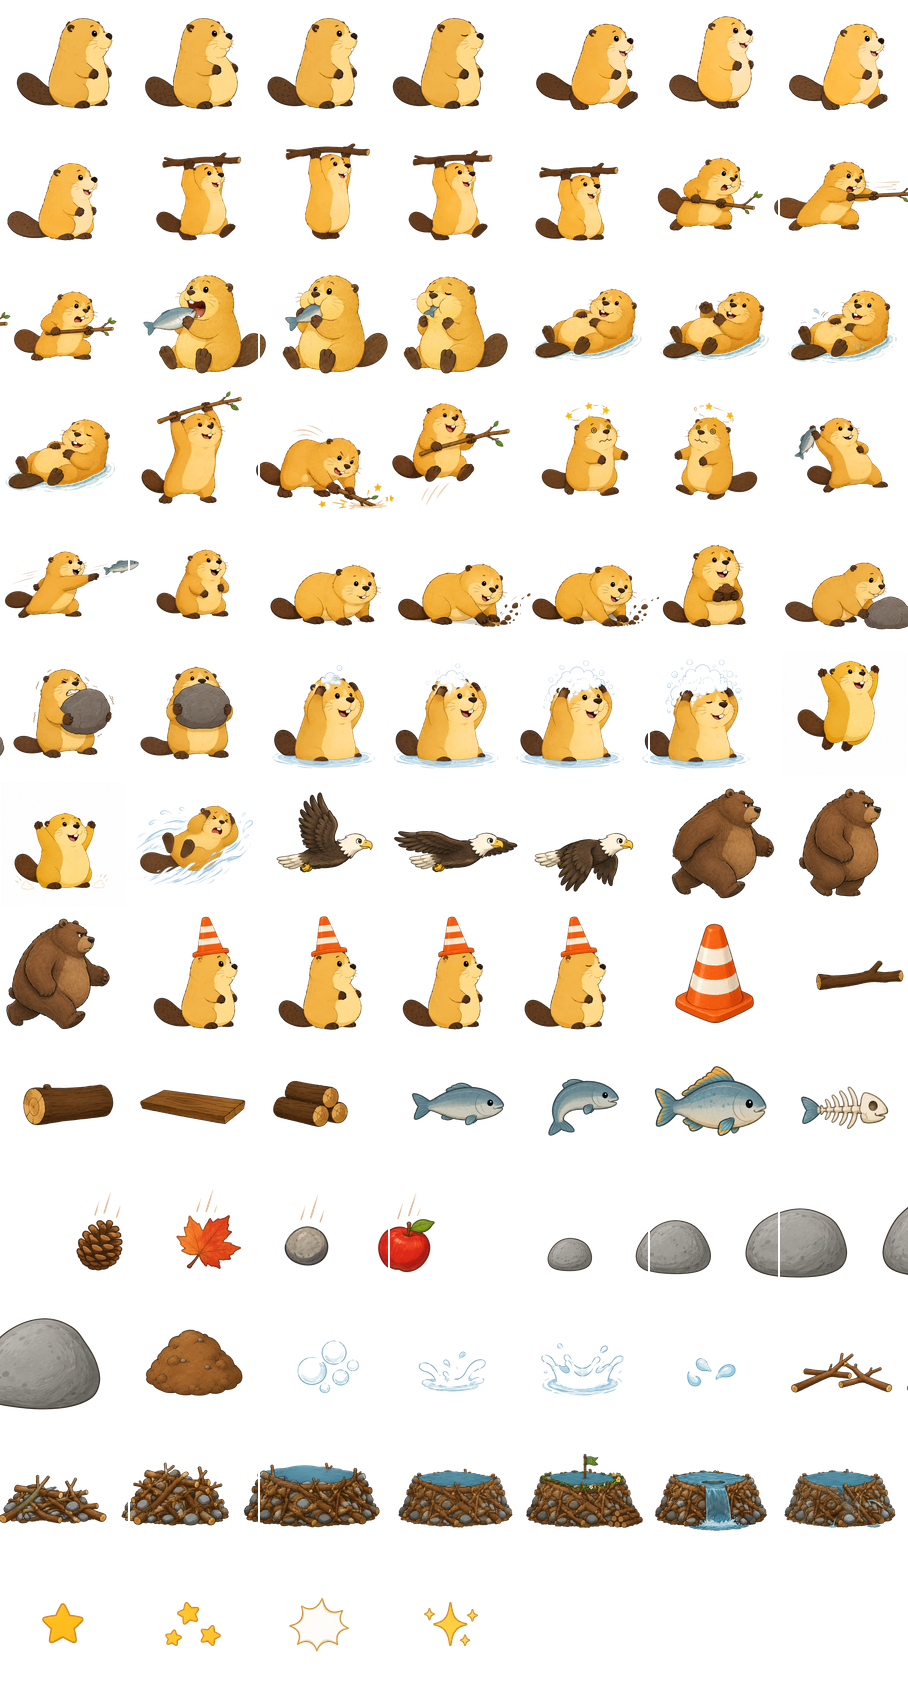
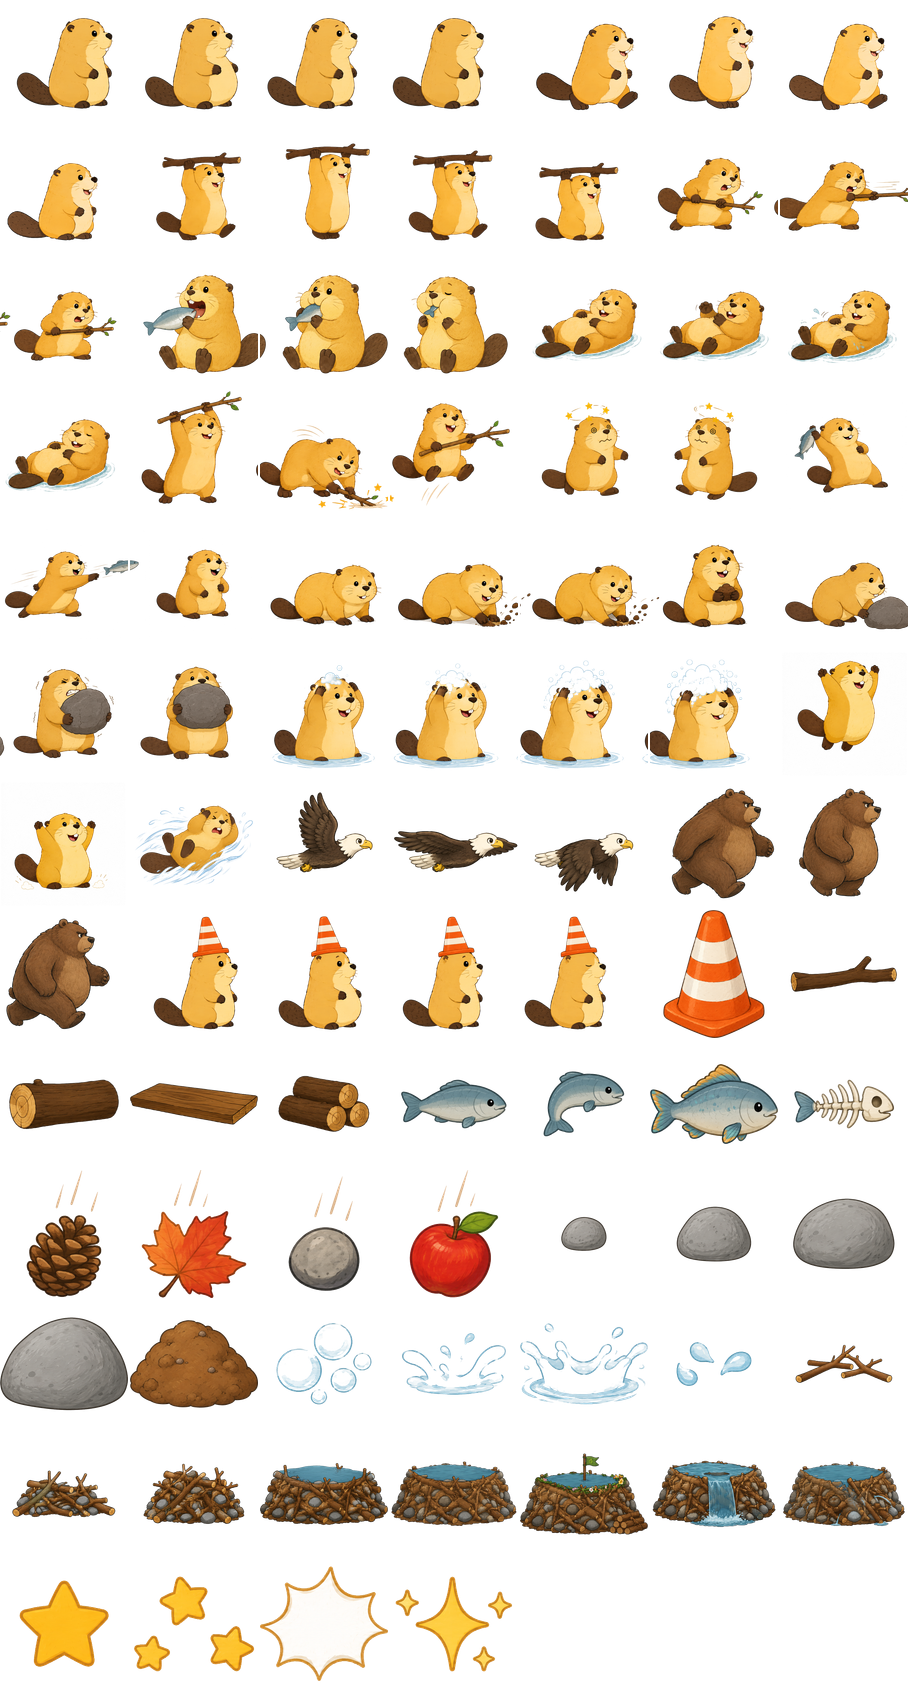
P2-08 fix: content-aware object slicing (rock seam)
- new scripts/lib/slice.ts (occupiedColumns/chooseCutPoints, +5 tests): cut
  object strips at widest gaps between props instead of equal cells
- processObjectSheet: flood-key -> gap-cut -> tight-crop (trim) -> centre at
  native size on per-sheet square -> resize; fixes the transparent seam through
  straddling rocks; props now centred + proportional, no distortion
- fix sharp op-order gotcha (resize before extend/composite) via two passes
- bump in-game ITEM_DISPLAY_HEIGHT 30->42 for readability
- npm run check 229 green + build green

diff --git a/scripts/lib/pipeline.ts b/scripts/lib/pipeline.ts
@@ -30,6 +30,7 @@ import {
   type RawRGBA,
 } from './colorkey';
 import { buildPhaserAtlasJson, packFrames, type FrameInput } from './atlas';
+import { chooseCutPoints, occupiedColumns } from './slice';
 import { buildAnimationsManifest, DEFAULT_FRAME_RATE } from './animations';
 
 /** Background-removal strategy per source sheet. */
@@ -175,6 +176,83 @@ export async function processSheet(
   return frames;
 }
 
+/**
+ * Slice an OBJECT strip into `frameCount` props using content-aware gap cuts
+ * (not equal cells), tight-crop each prop, then centre it at native size on a
+ * per-sheet square canvas (relative sizes preserved, no distortion, no seams).
+ * Frames are named `${key}_${startIndex + i}`.
+ */
+export async function processObjectSheet(
+  filePath: string,
+  key: string,
+  opts: SheetOptions = {},
+  startIndex = 0,
+): Promise<ProcessedFrame[]> {
+  const frameHeight = opts.frameHeight ?? DEFAULT_FRAME_HEIGHT;
+  const { data, info } = await sharp(filePath).ensureAlpha().raw().toBuffer({ resolveWithObject: true });
+  const grid = detectGrid(info.width, info.height);
+  const img = { data: new Uint8Array(data), width: info.width, height: info.height };
+  const bg = sampleBackgroundColor(img);
+  const keyed = floodKeyBackground(img, bg, {
+    tolerance: opts.tolerance ?? DEFAULT_TOLERANCE,
+    feather: opts.feather ?? DEFAULT_FEATHER,
+  });
+  const keyedBuf = Buffer.from(keyed.data.buffer, keyed.data.byteOffset, keyed.data.byteLength);
+  const occ = occupiedColumns(keyed.data, info.width, info.height);
+  const cuts = chooseCutPoints(occ, grid.frameCount);
+  const bounds = [0, ...cuts, info.width];
+
+  // pass 1: tight-crop each segment to its content bbox
+  const cropped: { buf: Buffer; w: number; h: number }[] = [];
+  for (let i = 0; i < grid.frameCount; i++) {
+    const left = Math.min(Math.max(0, bounds[i]!), info.width - 1);
+    const width = Math.min(Math.max(1, bounds[i + 1]! - left), info.width - left);
+    const segPng = await sharp(keyedBuf, { raw: { width: info.width, height: info.height, channels: 4 } })
+      .extract({ left, top: 0, width, height: info.height })
+      .png()
+      .toBuffer();
+    let out;
+    try {
+      out = await sharp(segPng).trim().png().toBuffer({ resolveWithObject: true });
+    } catch {
+      out = await sharp(segPng).png().toBuffer({ resolveWithObject: true }); // uniform/empty -> keep
+    }
+    cropped.push({ buf: out.data, w: out.info.width, h: out.info.height });
+  }
+
+  // pass 2: centre each crop at native size on a common square, resize to frameHeight
+  const side = Math.max(1, ...cropped.map((c) => Math.max(c.w, c.h)));
+  const frames: ProcessedFrame[] = [];
+  for (let i = 0; i < cropped.length; i++) {
+    const c = cropped[i]!;
+    const padL = Math.floor((side - c.w) / 2);
+    const padT = Math.floor((side - c.h) / 2);
+    // NOTE: sharp applies resize BEFORE extend within one pipeline, so pad to
+    // the square in one call, then resize in a fresh instance.
+    const paddedPng = await sharp(c.buf)
+      .extend({
+        top: padT,
+        bottom: side - c.h - padT,
+        left: padL,
+        right: side - c.w - padL,
+        background: { r: 0, g: 0, b: 0, alpha: 0 },
+      })
+      .png()
+      .toBuffer();
+    const squared = await sharp(paddedPng)
+      .resize(frameHeight, frameHeight, { kernel: 'lanczos3' })
+      .raw()
+      .toBuffer();
+    frames.push({
+      name: `${key}_${startIndex + i}`,
+      data: new Uint8Array(squared),
+      width: frameHeight,
+      height: frameHeight,
+    });
+  }
+  return frames;
+}
+
 export interface PipelineOptions {
   /** Directory containing the source sheets. */
   assetsDir: string;
@@ -266,10 +344,10 @@ export async function runPipeline(opts: PipelineOptions): Promise<PipelineResult
   for (const { key, files } of findObjectFiles(opts.assetsDir)) {
     const names: string[] = [];
     for (const file of files) {
-      const frames = await processSheet(
+      const frames = await processObjectSheet(
         file,
         key,
-        { frameHeight, tolerance: opts.tolerance, feather: opts.feather, mode: 'flood' },
+        { frameHeight, tolerance: opts.tolerance, feather: opts.feather },
         names.length,
       );
       for (const f of frames) names.push(f.name);

diff --git a/scripts/lib/slice.ts b/scripts/lib/slice.ts
@@ -1,0 +1,71 @@
+/**
+ * Content-aware column slicing for OBJECT sheets (P2-08). Object strips are not
+ * evenly spaced — props grow/shift across the row — so equal-width grid cuts
+ * can slice through a prop and leave the flood-keyed background gap as a seam.
+ * Instead we cut at the widest transparent gaps between props.
+ *
+ * Pure (no sharp): operates on an alpha occupancy profile so it is unit-tested.
+ */
+
+/** For each column, true if it holds any pixel more opaque than `alphaMin`. */
+export function occupiedColumns(
+  data: Uint8Array | Uint8ClampedArray,
+  width: number,
+  height: number,
+  alphaMin = 8,
+): boolean[] {
+  const occ = new Array<boolean>(width).fill(false);
+  for (let x = 0; x < width; x++) {
+    for (let y = 0; y < height; y++) {
+      if (data[(y * width + x) * 4 + 3]! > alphaMin) {
+        occ[x] = true;
+        break;
+      }
+    }
+  }
+  return occ;
+}
+
+interface Gap {
+  start: number;
+  end: number;
+}
+
+/**
+ * Choose `segments - 1` cut x-positions that separate `segments` objects,
+ * placed at the centres of the widest INTERIOR background gaps (runs of empty
+ * columns bounded by content on both sides — leading/trailing margins ignored).
+ * Falls back to even spacing when there aren't enough interior gaps (e.g. props
+ * touching). Returned positions are sorted ascending.
+ */
+export function chooseCutPoints(occupied: boolean[], segments: number): number[] {
+  const width = occupied.length;
+  if (segments <= 1) return [];
+
+  const gaps: Gap[] = [];
+  let i = 0;
+  while (i < width && !occupied[i]) i++; // skip leading margin
+  let runStart = -1;
+  for (; i < width; i++) {
+    if (!occupied[i]) {
+      if (runStart < 0) runStart = i;
+    } else if (runStart >= 0) {
+      gaps.push({ start: runStart, end: i - 1 });
+      runStart = -1;
+    }
+  }
+  // a trailing run (runStart >= 0 here) is the right margin -> ignored
+
+  if (gaps.length < segments - 1) {
+    const cuts: number[] = [];
+    for (let s = 1; s < segments; s++) cuts.push(Math.round((width * s) / segments));
+    return cuts;
+  }
+
+  const byWidth = [...gaps].sort((a, b) => b.end - b.start - (a.end - a.start));
+  const chosen = byWidth
+    .slice(0, segments - 1)
+    .map((g) => Math.round((g.start + g.end) / 2))
+    .sort((a, b) => a - b);
+  return chosen;
+}

diff --git a/tests/unit/slice.test.ts b/tests/unit/slice.test.ts
@@ -1,0 +1,52 @@
+/**
+ * P2-08 content-aware object slicing: pick cut points at the widest gaps
+ * between props so uneven object rows aren't sliced through a prop.
+ */
+import { describe, expect, it } from 'vitest';
+import { chooseCutPoints, occupiedColumns } from '../../scripts/lib/slice';
+
+/** Build a fake RGBA row image: opaque in the given [start,end) column spans. */
+function rowImage(width: number, spans: [number, number][], height = 3): Uint8Array {
+  const d = new Uint8Array(width * height * 4);
+  for (const [a, b] of spans) {
+    for (let x = a; x < b; x++) {
+      for (let y = 0; y < height; y++) d[(y * width + x) * 4 + 3] = 255;
+    }
+  }
+  return d;
+}
+
+describe('occupiedColumns', () => {
+  it('flags columns that contain any opaque pixel', () => {
+    const occ = occupiedColumns(rowImage(10, [[2, 5]]), 10, 3);
+    expect(occ.map((b) => (b ? 1 : 0))).toEqual([0, 0, 1, 1, 1, 0, 0, 0, 0, 0]);
+  });
+});
+
+describe('chooseCutPoints', () => {
+  it('returns no cuts for a single segment', () => {
+    expect(chooseCutPoints(occupiedColumns(rowImage(10, [[2, 5]]), 10, 3), 1)).toEqual([]);
+  });
+
+  it('cuts at gap centres between evenly separated objects', () => {
+    // objects at 0-2, 5-7, 10-12 within width 13 -> gaps 2-4 and 7-9
+    const occ = occupiedColumns(rowImage(13, [[0, 2], [5, 7], [10, 12]]), 13, 3);
+    expect(chooseCutPoints(occ, 3)).toEqual([3, 8]);
+  });
+
+  it('prefers the WIDEST gaps (ignores small intra-object gaps)', () => {
+    // two real objects separated by a wide gap (10-19), plus a tiny 1px nick
+    // inside the first object (3-4) that must NOT be chosen as the cut.
+    const occ = occupiedColumns(rowImage(30, [[0, 3], [4, 10], [20, 30]]), 30, 3);
+    // for 2 segments we pick the single widest gap -> centre of 10..19 = 14/15
+    const cuts = chooseCutPoints(occ, 2);
+    expect(cuts).toHaveLength(1);
+    expect(cuts[0]).toBeGreaterThanOrEqual(13);
+    expect(cuts[0]).toBeLessThanOrEqual(16);
+  });
+
+  it('falls back to even spacing when gaps are missing (props touching)', () => {
+    const occ = occupiedColumns(rowImage(12, [[0, 12]]), 12, 3); // solid, no gaps
+    expect(chooseCutPoints(occ, 3)).toEqual([4, 8]);
+  });
+});

diff --git a/src/game/scenes/GameScene.ts b/src/game/scenes/GameScene.ts
@@ -39,7 +39,7 @@ import { OTTER_TEXTURE } from './BootScene';
 const PLAYER_ID = 'otter-1';
 const WORLD = { width: 960, height: 540 };
 const OTTER_DISPLAY_HEIGHT = 96;
-const ITEM_DISPLAY_HEIGHT = 30;
+const ITEM_DISPLAY_HEIGHT = 42;
 const CONE_HAT_HEIGHT = 34;
 const DAM_DISPLAY_HEIGHT = 104;
 const EFFECT_DISPLAY_HEIGHT = 40;

diff --git a/STATE.md b/STATE.md
@@ -3,6 +3,7 @@
 > 每次 session 結束前必須更新本檔。新 agent 從這裡開始。
 
 ## 最後更新
+2026-07-05 · by Claude (wave 16 修正:物件切條改「內容感知」——依物件間最寬空隙切〔非等分格〕,修好石頭因跨格被切+去背清縫產生的透明接縫;每物件 trim 緊裁後置中於一致方框,不變形。新增 scripts/lib/slice.ts〔occupiedColumns/chooseCutPoints,+5 測〕+ processObjectSheet 兩段式〔sharp 的 resize 早於 extend,需分兩次〕。in-game 道具尺寸 30→42。229 綠+build 綠)
 2026-07-05 · by Claude+子代理 (wave 15:P2-09 演出打磨——事件驅動的暫態動作動畫〔丟魚/挖土/撿石/洗澡,otter-*幀,過期回退〕+ 打擊/水花特效 sprite〔戳人/熊撞/坑→obj_star,入水/被鷹叼→obj_splash,上浮淡出後自毀〕。兩支純模組 action-anim.ts + effects.ts〔子代理 TDD,零 Phaser〕接進 GameScene〔adapter.onEvents;暫態動畫優先序在 base action 之上、win/lose/dizzy 之下〕。不動 core。`npm run check` 224 綠 + build 綠。凍結截圖不受影響〔無事件〕。僅剩場景 tiles〔待美術〕)
 2026-07-05 · by Claude (wave 14:第二批美術接進 GameScene——道具改 obj_* 貼圖〔樹枝/魚/石頭/錐/土〕、水壩改 obj_dam 分階段〔進度 0→3、勝利換裝飾幀 5〕、老鷹/熊改真動畫 sprite〔體型 熊>>獺>>鷹,鷹留地面影子預警〕、三角錐帽套頭、暈眩〔stunnedMs>0〕/勝利/失敗動畫。新增純模組 src/game/render-map.ts〔state→幀/動畫映射,零 Phaser〕+6 測含契約測〔映射的幀/動畫都存在於 atlas〕。不動 core。`npm run check` 209 綠 + build 綠。E2E:凍結截圖〔boot/mobile,hazards=0〕因道具/水壩改貼圖會變,CI 於 main 自動重生 linux 基準〔首跑紅一次後補基準即綠〕)
 2026-07-05 · by Claude (wave 13:第二批美術過管線——新增 11 動作/NPC 動畫〔dizzy/throw/dig/pick_stone/wash/win/lose/eagle/bear/cone_hat〕+ 9 組物件貼圖〔obj_cone/wood/fish/falling/stone/dirt/splash/dam〔8 階段〕/star〕。單一 otter.png 圖集 88 幀 908×1688 ~1.13MB〔遠低於 3MB 預算〕;新增 objects.json 物件清單。管線加 floodKeyBackground〔邊界連通去背〕保住灰/白內部〔石頭/魚肚/泡泡/鷹頭/水壩〕;win 用全域去背化掉卡片底、O 牽手圖有硬邊框故捨棄〔改單漂+連線〕。P2-08 done、P2-09 部分〔剩場景 tiles〕。`npm run check` 203 綠 + build 綠)

diff --git a/Docs/P2-08_object-slicing-fix_summary.md b/Docs/P2-08_object-slicing-fix_summary.md
@@ -1,0 +1,33 @@
+# P2-08 fix — content-aware object slicing (rock seam)
+
+**Date:** 2026-07-05 · by Claude · branch `feat/object-slicing-fix`
+
+## Problem
+Object sheets were sliced into equal-width cells (sheet width / height). Props
+are unevenly spaced (stones grow and drift across the row), so a cell boundary
+cut through a rock; the flood-key then cleared the background gap between the
+main rock and the sliver of its neighbour, leaving a transparent vertical
+**seam** through obj_stone_1..3 (and any other straddling prop).
+
+## Fix
+New `scripts/lib/slice.ts` (pure, tested): `occupiedColumns` + `chooseCutPoints`
+cut object strips at the centres of the widest background gaps between props
+(falling back to even spacing if props touch). `processObjectSheet` in the
+pipeline now: flood-key → gap-cut → tight-crop each prop (sharp `trim`) →
+centre at native size on a per-sheet square → resize. Result: no seams, props
+centred and proportional, no distortion.
+
+Two sharp gotchas fixed along the way: sharp applies `resize` BEFORE
+`extend`/`composite` within one pipeline regardless of chain order, so padding
+to the square is done in a separate pass before resizing.
+
+Also bumped in-game `ITEM_DISPLAY_HEIGHT` 30→42 so ground props read better.
+
+## Verify
+- `npm run check` → **229 green** (+5 slice unit tests).
+- `npm run assets` → 88 frames, atlas ~1.26 MB (< 3 MB budget).
+- Visual QA: stones/fish/wood/dam/star/splash/cone/dirt/falling all clean,
+  centred, seam-free on a flat backing.
+
+Character/animation sheets are unchanged (still equal-grid — frames there are
+evenly spaced and must stay count-aligned).
